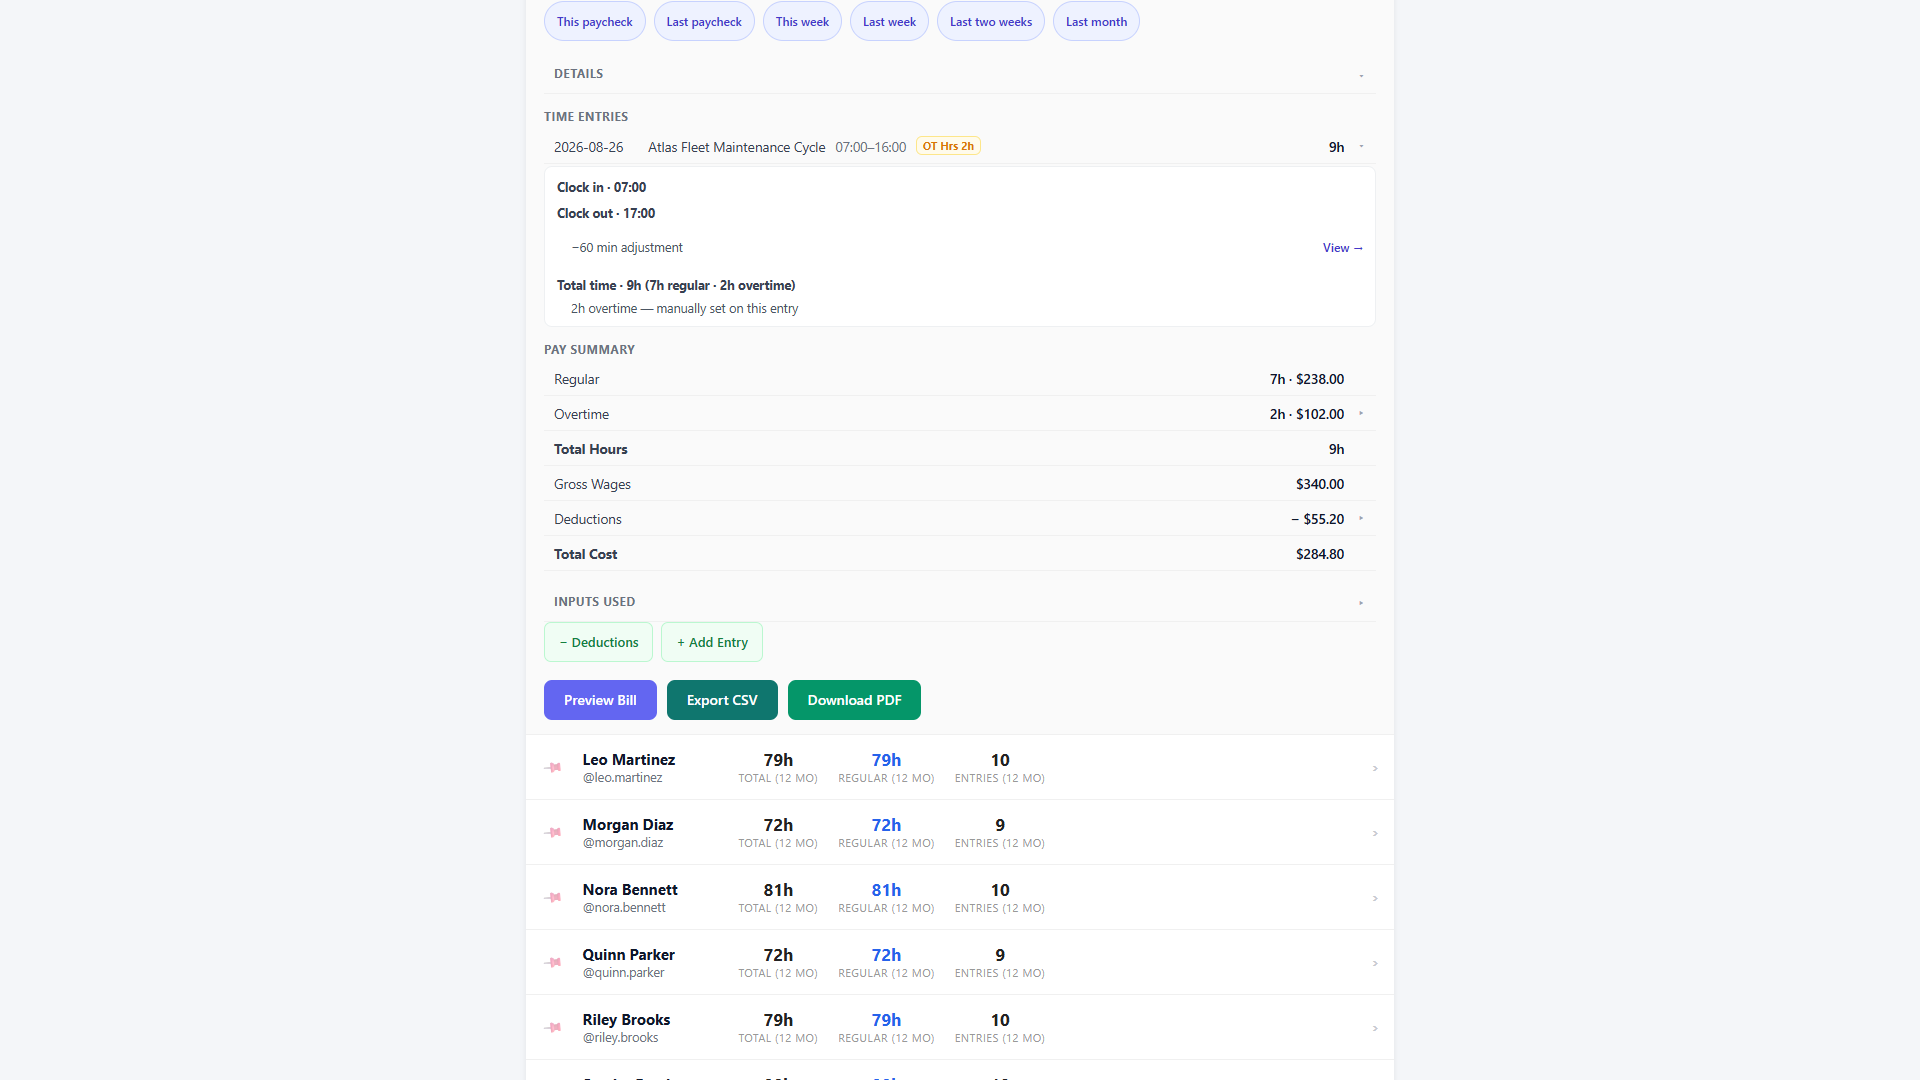
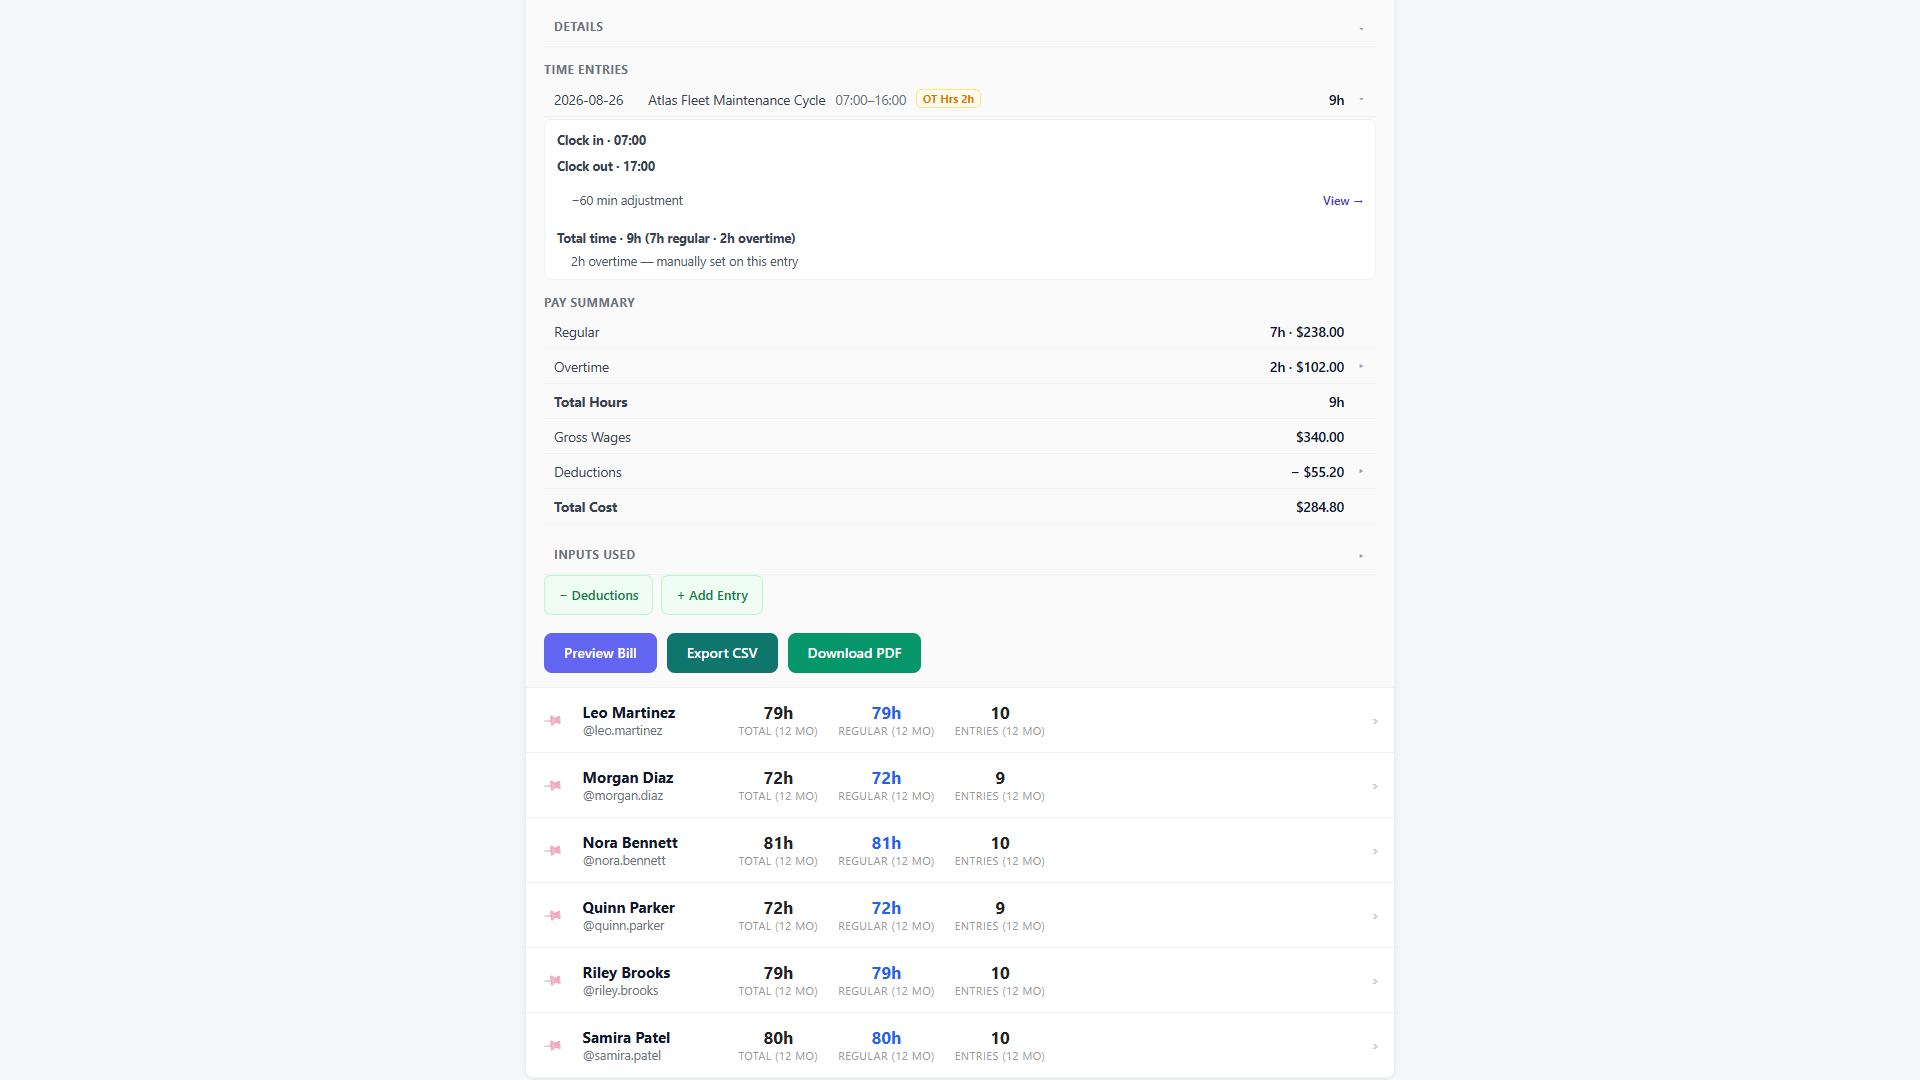
Keep report details expansion in view

diff --git a/marketing/ads/src/videos.jsx b/marketing/ads/src/videos.jsx
@@ -73,7 +73,7 @@ const reportsStates = [
   { at: 252, src: 'captures/field-payroll/reports-generated.png' },
   { at: 295, src: 'captures/field-payroll/reports-details.png' },
   { at: 350, src: 'captures/field-payroll/reports-overtime-date.png' },
-  { at: 410, src: 'captures/field-payroll/reports-preview-ready.png', transition: 'scroll', transitionFrames: 24, scrollDistance: 425, matchedScroll: true },
+  { at: 410, src: 'captures/field-payroll/reports-preview-ready.png', transition: 'scroll', transitionFrames: 24, scrollDistance: 250, matchedScroll: true },
   { at: 470, src: 'captures/field-payroll/reports-bill-preview.png' },
 ];
 
@@ -83,9 +83,9 @@ const reportsMoves = [
   { start: 155, end: 175, from: [960, 540], to: [889, 224], clickAt: 182 },
   { start: 227, end: 243, from: [889, 224], to: [916, 174], clickAt: 247 },
   { start: 260, end: 280, from: [916, 174], to: [600, 278], clickAt: 288 },
-  { start: 305, end: 330, from: [600, 278], to: [600, 570], clickAt: 345 },
-  { start: 360, end: 395, from: [600, 570], to: [760, 732] },
-  { start: 434, end: 454, from: [760, 732], to: [600, 700], clickAt: 465 },
+  { start: 305, end: 330, from: [600, 278], to: [950, 350], clickAt: 345 },
+  { start: 360, end: 395, from: [950, 350], to: [790, 525] },
+  { start: 434, end: 454, from: [790, 525], to: [600, 653], clickAt: 465 },
 ];
 
 const reportsHighlights = [{
